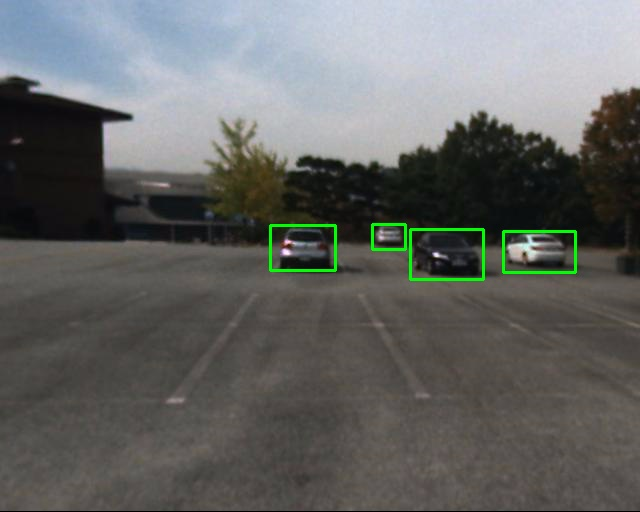
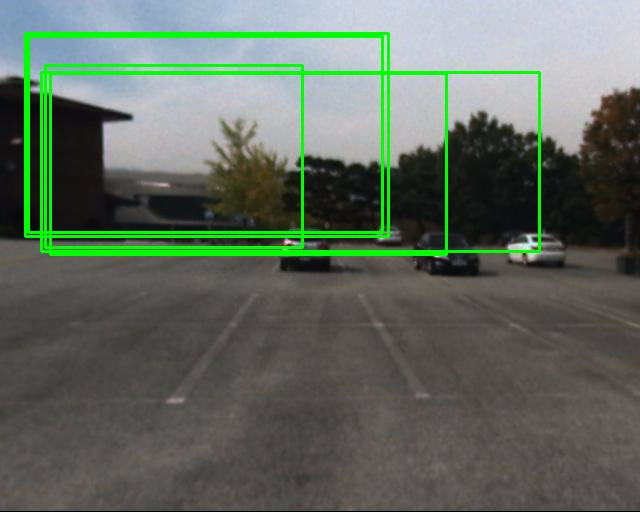
YoloNMS

Changed region(s): [[0.0312, 0.0625, 0.9062, 0.5625]]

diff --git a/nms_python-master/nms_python-master/nms_test.py b/nms_python-master/nms_python-master/nms_test.py
@@ -5,95 +5,60 @@ import cv2
 import time
 import xml.etree.ElementTree as ET
 import pandas as pd
+import csv
 
 dfr=pd.read_csv('test_excel.csv')
 dft=pd.read_csv('test_excel1.csv')
+dfc=dfr.append(dft)
+print(dfc)
 def merge(dfr,dft):
 ## Coordinates extraction
     lengthr=len(dfr.index)
     lengtht=len(dft.index)
-    i=1
     boxes=[]
     box=[]
     label=[]
     labels=[]
+    confidence=[]
+    i=0
     for i in range(lengthr):
-        x1=dfr.iloc[i,2]
-        y1=dfr.iloc[i,3]
-        x2 = dfr.iloc[i, 4]
-        y2 = dfr.iloc[i, 5]
-        boxr=[x1,y1,x2,y2]
+        x1=dfr.iloc[i,3]
+        y1=dfr.iloc[i,4]
+        x2 = dfr.iloc[i, 5]
+        y2 = dfr.iloc[i, 6]
+        conf=float(dfr.iloc[i,8])
+        boxr=[int((x1+x2)/2),int((y1+y2)/2),int(abs(y1-y2)),int(abs(x1-x2))]
         boxes=np.append(boxes,boxr,axis=0)
-
+        confidence=np.append(confidence,conf)
         labelr=[dfr.iloc[i, 6]]
         labels=np.append(labels,labelr,axis=0)
 
 
     for i in range(lengtht):
-        x1 = dft.iloc[i, 2]
-        y1 = dft.iloc[i, 3]
-        x2 = dft.iloc[i, 4]
-        y2 = dft.iloc[i, 5]
-        boxt = [x1, y1, x2, y2]
+        x1 = dft.iloc[i, 3]
+        y1 = dft.iloc[i, 4]
+        x2 = dft.iloc[i, 5]
+        y2 = dft.iloc[i, 6]
+        conf = float(dft.iloc[i, 8])
+        boxt=[int((x1+x2)/2),int((y1+y2)/2),int(abs(y1-y2)),int(abs(x1-x2))]
         boxes = np.append(boxes, boxt, axis=0)
-
+        confidence = np.append(confidence, conf)
         labelt = [dft.iloc[i, 6]]
         labels = np.append(labels, labelt, axis=0)
 
-    boxes= np.reshape(boxes,(-1,4))
     labels=np.reshape(labels,(-1,1))
-    boxes=boxes.astype(int)
-
-    images = [("images/Parking.jpg", boxes,labels)]
-    iter_num= 1
-    images = images*iter_num  # change the iterations to compare the two nms method
-
-    t1 = time.time()
-
-    # loop over the images
-    for (i, (imagePath, boundingBoxes,labels)) in enumerate(images):
-        # load the image and clone it
-        # print ("[x] %d initial bounding boxes" % (len(boundingBoxes)))
-        image = cv2.imread(imagePath)
-        orig = image.copy()
-
-        # loop over the bounding boxes for each image and draw them
-        for (startX, startY, endX, endY) in boundingBoxes:
-            cv2.rectangle(orig, (startX, startY), (endX, endY), (0, 0, 255), 2)
-
-        # perform non-maximum suppression on the bounding boxes
-        # pick = non_max_suppression_slow(boundingBoxes, 0.3)
-
-        pick,pick_labels = non_max_suppression_fast(boundingBoxes,labels, probs=None, overlapThresh=0.3)
-        # print ("[x] after applying non-maximum, %d bounding boxes" % (len(pick)))
-
-        # loop over the picked bounding boxes and draw them
-        for (startX, startY, endX, endY) in pick:
-            cv2.rectangle(image, (startX, startY), (endX, endY), (0, 255, 0), 2)
-
-        # display the images
-        # cv2.imshow("Original" + i, orig)
-        # cv2.imshow("After NMS" + i, image)
-        # cv2.waitKey(0)
-
-        # save the images
-        cv2.imwrite("images/Original_test" + str(i) + ".jpg", orig)
-        cv2.imwrite("images/After_NMS_test" + str(i) + ".jpg", image)
+    boxes=list(boxes)
+    confidence=list(confidence)
+    boxes=[boxes[x:x+4] for x in range(0, len(boxes), 4)]
 
 
-    return pick,pick_labels
+    return boxes,confidence
 
-box,label=merge(dfr,dft)
-print(box,label)
-# t2 = time.time()
-# print('cost {} ms to process {} images'.format((t2 - t1)*1000, len(images)))
-# boxes,labels = extract("test_excel.csv")
-# boxes1,labels1= extract("test_excel1.csv")
-# a=boxes
-# b=boxes1
-# bbox=np.append(a,b,axis=0)
-# bbox=bbox.astype(int)
-# print(type(bbox))
+boxes,confidence=merge(dfr,dft)
+print(boxes)
+yu= cv2.dnn.NMSBoxes(boxes, confidence, 0.1, 0.1)
+print(yu)
 
-# construct a list containing the images that will be examined
-# along with their respective bounding boxes
+dfc=dfc.drop(dfc.index[1])
+print(dfc)
+
